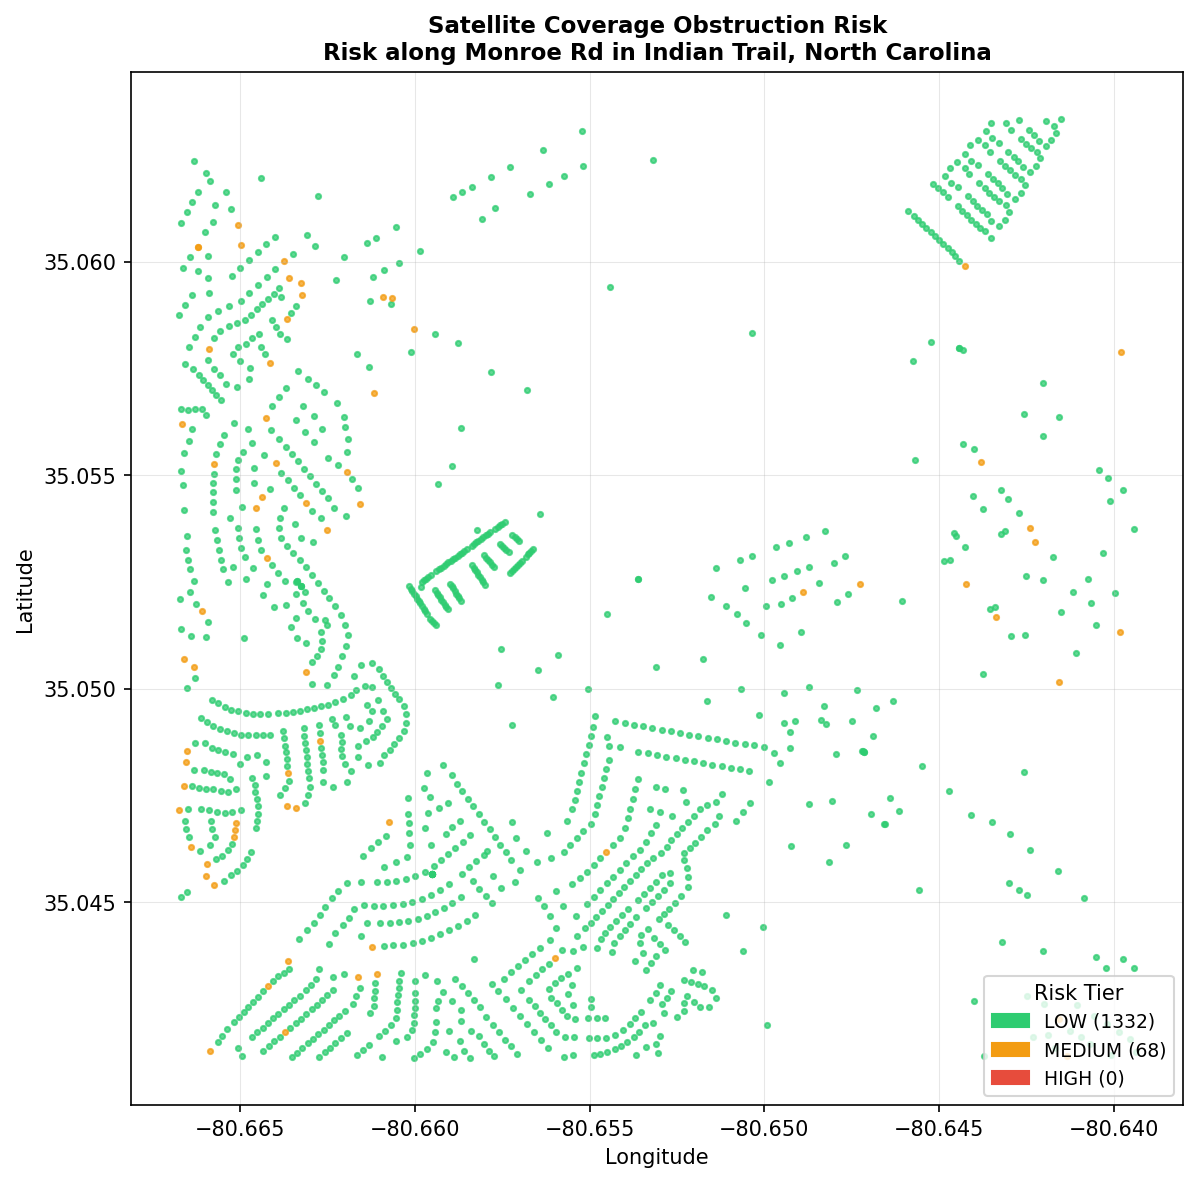
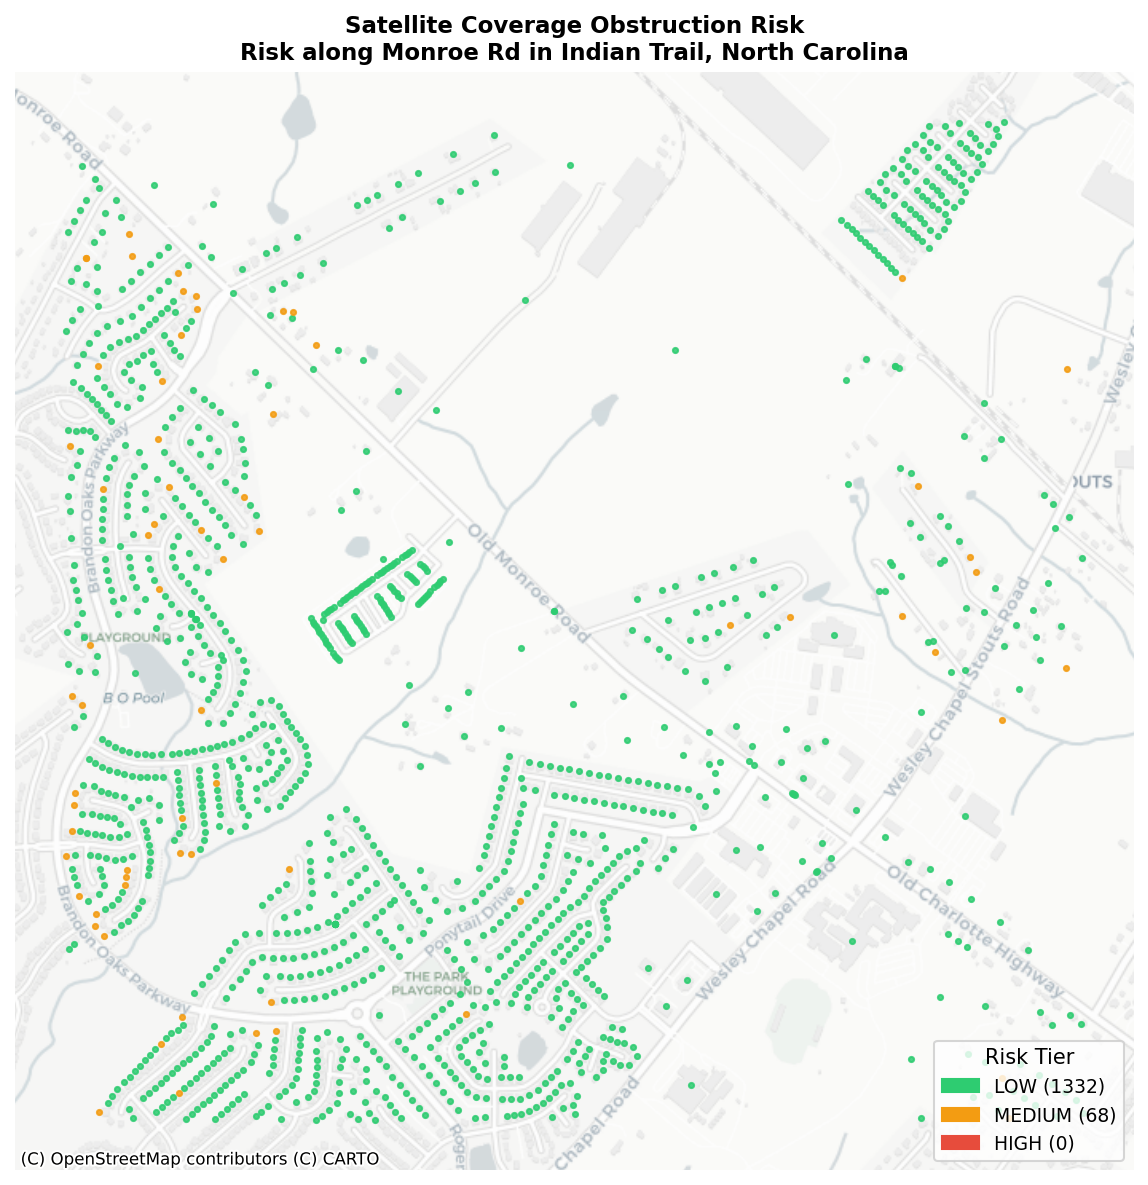
Added an OSM basemap to our risk_map.png using contextily. Added '--map-only' flag to update the map using an existing risk_scores.csv (to avoid API calls for reporting when just updating the map)

diff --git a/agents/reporter.py b/agents/reporter.py
@@ -11,6 +11,7 @@ import os
 from datetime import datetime
 
 import anthropic
+import contextily as ctx
 import geopandas as gpd
 import matplotlib.patches as mpatches
 import matplotlib.pyplot as plt
@@ -23,7 +24,7 @@ RISK_COLORS = {
 }
 
 REPORT_PROMPT = """\
-You are a geospatial analyst writing a professional report for a telecommunications regulatory filing. \
+You are a geospatial analyst writing a professional report for a non-technical state broadband officer. \
 The report assesses satellite internet coverage obstruction risk for LEO (Low Earth Orbit) providers \
 (e.g., Starlink) at locations the providers are committed to serve.
 
@@ -65,6 +66,18 @@ Include the map image at the end: ![Risk Map](risk_map.png)
 class ReporterAgent:
     def __init__(self):
         self.client = anthropic.Anthropic()
+
+    def generate_map_only(
+        self,
+        risk_gdf: gpd.GeoDataFrame,
+        query: str,
+        output_dir: str,
+    ) -> str:
+        """Generate just the risk map without calling the Claude API."""
+        os.makedirs(output_dir, exist_ok=True)
+        map_path = self._generate_map(risk_gdf, query, output_dir)
+        print(f"\n[Reporter] Map → {map_path}")
+        return map_path
 
     def generate_report(
         self,
@@ -149,17 +162,22 @@ class ReporterAgent:
     def _generate_map(
         self, gdf: gpd.GeoDataFrame, query: str, output_dir: str
     ) -> str:
+        # Reproject to Web Mercator so tile basemap aligns correctly
+        gdf_web = gdf.to_crs(epsg=3857)
+
         fig, ax = plt.subplots(figsize=(12, 8))
 
         for tier in ["LOW", "MEDIUM", "HIGH"]:
-            subset = gdf[gdf["risk_tier"] == tier]
+            subset = gdf_web[gdf_web["risk_tier"] == tier]
             if len(subset):
                 subset.plot(
                     ax=ax,
                     color=RISK_COLORS[tier],
                     markersize=6,
-                    alpha=0.75,
+                    alpha=0.85,
                 )
+
+        ctx.add_basemap(ax, source=ctx.providers.CartoDB.Positron, zoom="auto")
 
         legend_patches = [
             mpatches.Patch(color=color, label=f"{tier} ({len(gdf[gdf['risk_tier']==tier])})")
@@ -172,10 +190,7 @@ class ReporterAgent:
             fontsize=11,
             fontweight="bold",
         )
-        ax.set_xlabel("Longitude")
-        ax.set_ylabel("Latitude")
-        ax.grid(True, alpha=0.3, linewidth=0.5)
-
+        ax.set_axis_off()
         plt.tight_layout()
         map_path = os.path.join(output_dir, "risk_map.png")
         plt.savefig(map_path, dpi=150, bbox_inches="tight")

diff --git a/orchestrator.py b/orchestrator.py
@@ -92,17 +92,40 @@ Examples:
         default=os.environ.get("OPENTOPO_API_KEY"),
         help="OpenTopography API key (enables terrain scoring)",
     )
+    parser.add_argument(
+        "--map-only",
+        action="store_true",
+        help="Regenerate the map from an existing risk_scores.csv without calling the API",
+    )
 
     args = parser.parse_args()
 
-    run_pipeline(
-        query=args.query,
-        csv_path=args.csv,
-        tcc_path=args.tcc,
-        buildings_path=args.buildings,
-        output_dir=args.output,
-        opentopo_key=args.opentopo_key,
-    )
+    if args.map_only:
+        import geopandas as gpd
+        import pandas as pd
+        from agents.reporter import ReporterAgent
+
+        csv_path = os.path.join(args.output, "risk_scores.csv")
+        if not os.path.exists(csv_path):
+            print(f"Error: {csv_path} not found. Run the full pipeline first.")
+            raise SystemExit(1)
+
+        df = pd.read_csv(csv_path)
+        gdf = gpd.GeoDataFrame(
+            df,
+            geometry=gpd.points_from_xy(df["longitude"], df["latitude"]),
+            crs="EPSG:4326",
+        )
+        ReporterAgent().generate_map_only(gdf, args.query, args.output)
+    else:
+        run_pipeline(
+            query=args.query,
+            csv_path=args.csv,
+            tcc_path=args.tcc,
+            buildings_path=args.buildings,
+            output_dir=args.output,
+            opentopo_key=args.opentopo_key,
+        )
 
 
 if __name__ == "__main__":
